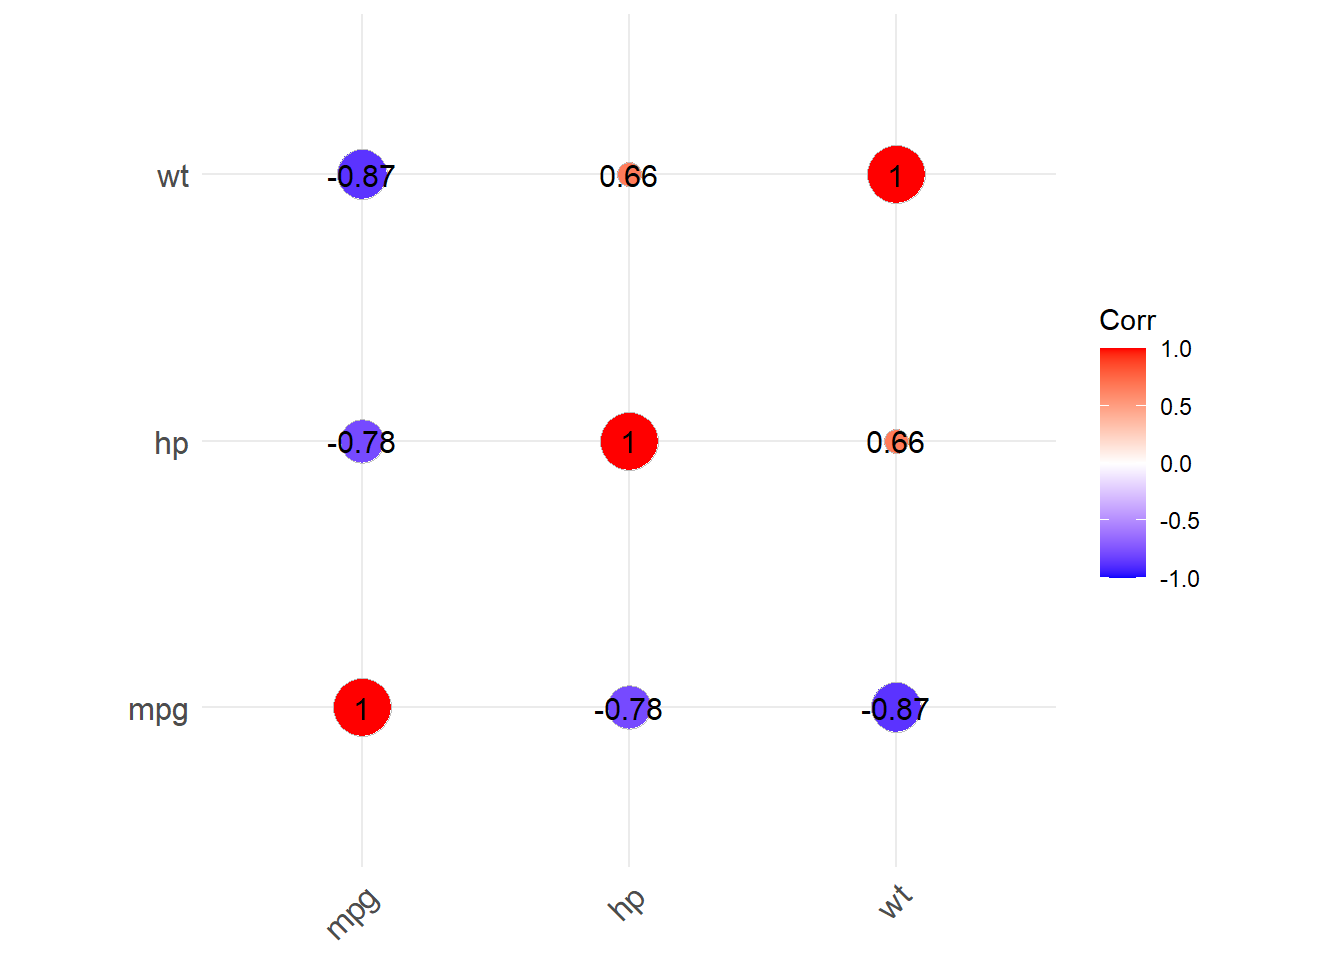
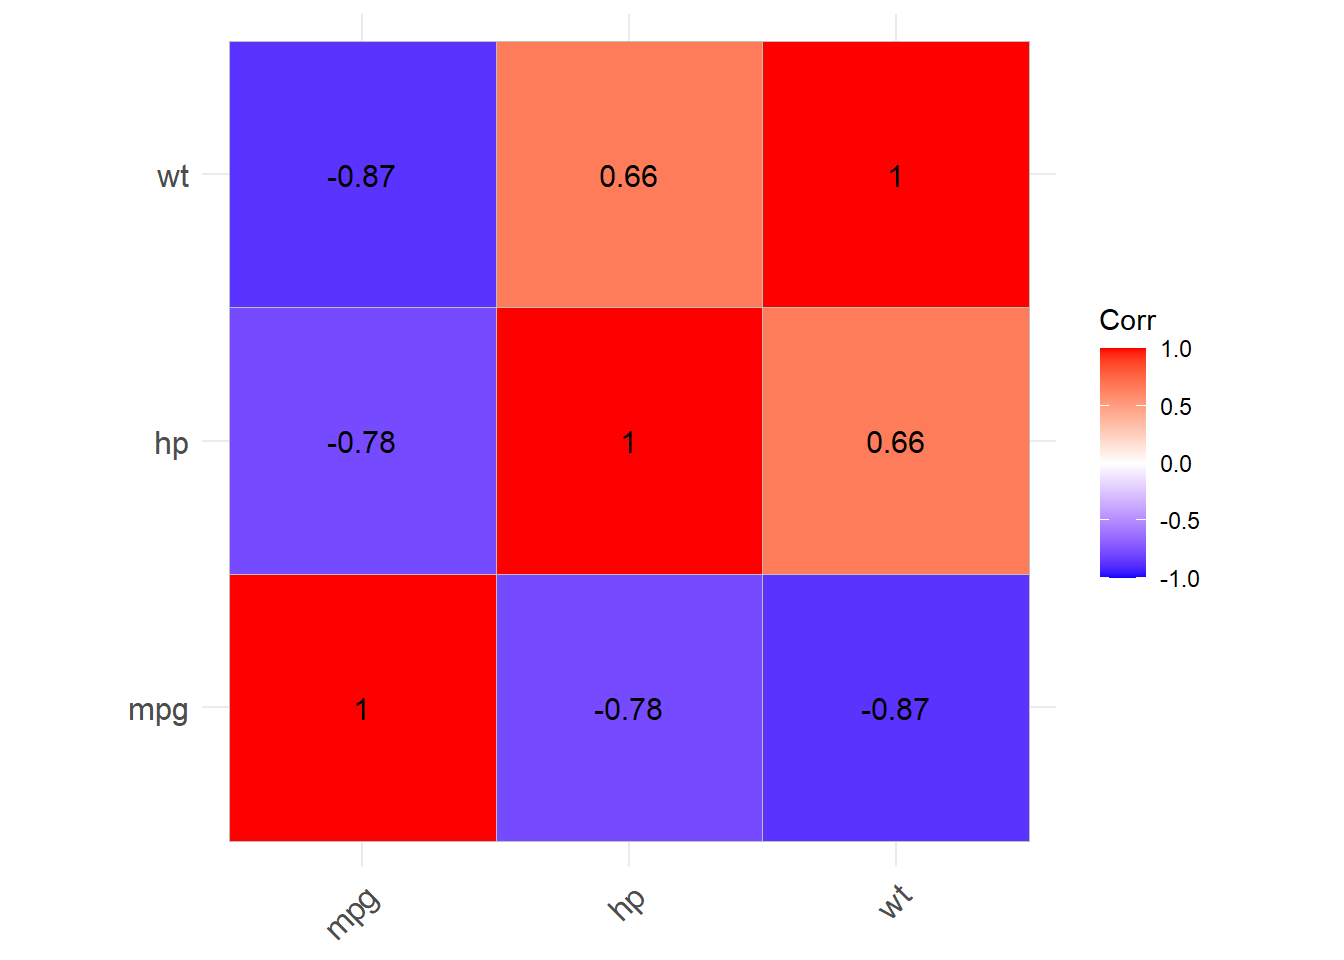
update lab 7

diff --git a/labs/lab-07_AGH.html b/labs/lab-07_AGH.html
@@ -151,7 +151,10 @@ pre > code.sourceCode > span > a:first-child::before { text-decoration: underlin
 <div class="cell">
 <div class="code-copy-outer-scaffold"><div class="sourceCode cell-code" id="cb4"><pre class="sourceCode r code-with-copy"><code class="sourceCode r"><span id="cb4-1"><a href="#cb4-1" aria-hidden="true" tabindex="-1"></a>mtcars <span class="sc">|&gt;</span></span>
 <span id="cb4-2"><a href="#cb4-2" aria-hidden="true" tabindex="-1"></a>  <span class="fu">ggplot</span>(<span class="fu">aes</span>(<span class="at">x =</span> mpg, <span class="at">y =</span> hp)) <span class="sc">+</span></span>
-<span id="cb4-3"><a href="#cb4-3" aria-hidden="true" tabindex="-1"></a>  <span class="fu">geom_point</span>()</span></code></pre></div><button title="Copy to Clipboard" class="code-copy-button"><i class="bi"></i></button></div>
+<span id="cb4-3"><a href="#cb4-3" aria-hidden="true" tabindex="-1"></a>  <span class="fu">geom_point</span>()<span class="sc">+</span></span>
+<span id="cb4-4"><a href="#cb4-4" aria-hidden="true" tabindex="-1"></a>  <span class="fu">labs</span>(<span class="at">x =</span> <span class="st">"Miles per Gallon"</span>, </span>
+<span id="cb4-5"><a href="#cb4-5" aria-hidden="true" tabindex="-1"></a>       <span class="at">y =</span> <span class="st">"Horsepower"</span>, </span>
+<span id="cb4-6"><a href="#cb4-6" aria-hidden="true" tabindex="-1"></a>       <span class="at">title =</span> <span class="st">"MPG vs. Horsepower"</span>)</span></code></pre></div><button title="Copy to Clipboard" class="code-copy-button"><i class="bi"></i></button></div>
 <div class="cell-output-display">
 <div>
 <figure class="figure">
@@ -180,14 +183,18 @@ pre > code.sourceCode > span > a:first-child::before { text-decoration: underlin
 </figure>
 </div>
 </div>
-<div class="code-copy-outer-scaffold"><div class="sourceCode cell-code" id="cb6"><pre class="sourceCode r code-with-copy"><code class="sourceCode r"><span id="cb6-1"><a href="#cb6-1" aria-hidden="true" tabindex="-1"></a><span class="fu">plot</span>(mtcars<span class="sc">$</span>mpg, mtcars<span class="sc">$</span>wt, </span>
-<span id="cb6-2"><a href="#cb6-2" aria-hidden="true" tabindex="-1"></a>     <span class="at">main=</span><span class="st">"MPG vs Weight"</span>, </span>
-<span id="cb6-3"><a href="#cb6-3" aria-hidden="true" tabindex="-1"></a>     <span class="at">xlab=</span><span class="st">"Miles per Gallon"</span>, </span>
-<span id="cb6-4"><a href="#cb6-4" aria-hidden="true" tabindex="-1"></a>     <span class="at">ylab=</span><span class="st">"Weight (1000 lbs)"</span>)</span></code></pre></div><button title="Copy to Clipboard" class="code-copy-button"><i class="bi"></i></button></div>
+</div>
+<p>Both approaches produce the same plot. The difference is just where we tell R to find the data. Using the pipe (|&gt;), we pass mtcars into ggplot() from the left. Using the data = argument, we put it directly inside ggplot(). Either style works — use whichever feels more readable to you.</p>
+<div class="cell">
+<div class="code-copy-outer-scaffold"><div class="sourceCode cell-code" id="cb6"><pre class="sourceCode r code-with-copy"><code class="sourceCode r"><span id="cb6-1"><a href="#cb6-1" aria-hidden="true" tabindex="-1"></a><span class="fu">ggplot</span>(mtcars, <span class="fu">aes</span>(<span class="at">x =</span> mpg, <span class="at">y =</span> wt)) <span class="sc">+</span></span>
+<span id="cb6-2"><a href="#cb6-2" aria-hidden="true" tabindex="-1"></a>  <span class="fu">geom_point</span>() <span class="sc">+</span></span>
+<span id="cb6-3"><a href="#cb6-3" aria-hidden="true" tabindex="-1"></a>  <span class="fu">labs</span>(<span class="at">x =</span> <span class="st">"Miles per Gallon"</span>, </span>
+<span id="cb6-4"><a href="#cb6-4" aria-hidden="true" tabindex="-1"></a>       <span class="at">y =</span> <span class="st">"Weight (1000 lbs)"</span>, </span>
+<span id="cb6-5"><a href="#cb6-5" aria-hidden="true" tabindex="-1"></a>       <span class="at">title =</span> <span class="st">"MPG vs. Weight"</span>)</span></code></pre></div><button title="Copy to Clipboard" class="code-copy-button"><i class="bi"></i></button></div>
 <div class="cell-output-display">
 <div>
 <figure class="figure">
-<p><img src="lab-07_AGH_files/figure-html/unnamed-chunk-4-2.png" class="img-fluid figure-img" width="672"></p>
+<p><img src="lab-07_AGH_files/figure-html/unnamed-chunk-5-1.png" class="img-fluid figure-img" width="672"></p>
 </figure>
 </div>
 </div>
@@ -234,7 +241,24 @@ wt  -0.8676594  0.6587479  1.0000000</code></pre>
 <div class="cell-output-display">
 <div>
 <figure class="figure">
-<p><img src="lab-07_AGH_files/figure-html/unnamed-chunk-8-1.png" class="img-fluid figure-img" width="672"></p>
+<p><img src="lab-07_AGH_files/figure-html/unnamed-chunk-9-1.png" class="img-fluid figure-img" width="672"></p>
+</figure>
+</div>
+</div>
+</div>
+<p>Let’s look visually at that relationship between hp and wt</p>
+<div class="cell">
+<div class="code-copy-outer-scaffold"><div class="sourceCode cell-code" id="cb15"><pre class="sourceCode r code-with-copy"><code class="sourceCode r"><span id="cb15-1"><a href="#cb15-1" aria-hidden="true" tabindex="-1"></a><span class="co"># Scatter plot between mpg and wt</span></span>
+<span id="cb15-2"><a href="#cb15-2" aria-hidden="true" tabindex="-1"></a>mtcars <span class="sc">|&gt;</span></span>
+<span id="cb15-3"><a href="#cb15-3" aria-hidden="true" tabindex="-1"></a>  <span class="fu">ggplot</span>(<span class="fu">aes</span>(<span class="at">x =</span> hp, <span class="at">y =</span> wt)) <span class="sc">+</span></span>
+<span id="cb15-4"><a href="#cb15-4" aria-hidden="true" tabindex="-1"></a>  <span class="fu">geom_point</span>() <span class="sc">+</span></span>
+<span id="cb15-5"><a href="#cb15-5" aria-hidden="true" tabindex="-1"></a>  <span class="fu">labs</span>(<span class="at">x =</span> <span class="st">"Horsepower"</span>, </span>
+<span id="cb15-6"><a href="#cb15-6" aria-hidden="true" tabindex="-1"></a>       <span class="at">y =</span> <span class="st">"Weight (1000 lbs)"</span>, </span>
+<span id="cb15-7"><a href="#cb15-7" aria-hidden="true" tabindex="-1"></a>       <span class="at">title =</span> <span class="st">"Horsepower vs. Weight"</span>)</span></code></pre></div><button title="Copy to Clipboard" class="code-copy-button"><i class="bi"></i></button></div>
+<div class="cell-output-display">
+<div>
+<figure class="figure">
+<p><img src="lab-07_AGH_files/figure-html/unnamed-chunk-10-1.png" class="img-fluid figure-img" width="672"></p>
 </figure>
 </div>
 </div>
@@ -242,24 +266,24 @@ wt  -0.8676594  0.6587479  1.0000000</code></pre>
 <p>The <code>ggcorrplot</code> package offers lots of versatility in terms of visualizing correlation matrices. See <a href="http://www.sthda.com/english/wiki/ggcorrplot-visualization-of-a-correlation-matrix-using-ggplot2">documentation here</a> for several options.</p>
 <p>For example:</p>
 <div class="cell">
-<div class="code-copy-outer-scaffold"><div class="sourceCode cell-code" id="cb15"><pre class="sourceCode r code-with-copy"><code class="sourceCode r"><span id="cb15-1"><a href="#cb15-1" aria-hidden="true" tabindex="-1"></a><span class="fu">ggcorrplot</span>(corr_matrix, <span class="at">lab =</span> <span class="st">"TRUE"</span>,</span>
-<span id="cb15-2"><a href="#cb15-2" aria-hidden="true" tabindex="-1"></a>           <span class="at">method =</span> <span class="st">"circle"</span>)</span></code></pre></div><button title="Copy to Clipboard" class="code-copy-button"><i class="bi"></i></button></div>
+<div class="code-copy-outer-scaffold"><div class="sourceCode cell-code" id="cb16"><pre class="sourceCode r code-with-copy"><code class="sourceCode r"><span id="cb16-1"><a href="#cb16-1" aria-hidden="true" tabindex="-1"></a><span class="fu">ggcorrplot</span>(corr_matrix, <span class="at">lab =</span> <span class="st">"TRUE"</span>,</span>
+<span id="cb16-2"><a href="#cb16-2" aria-hidden="true" tabindex="-1"></a>           <span class="at">method =</span> <span class="st">"circle"</span>)</span></code></pre></div><button title="Copy to Clipboard" class="code-copy-button"><i class="bi"></i></button></div>
 <div class="cell-output-display">
 <div>
 <figure class="figure">
-<p><img src="lab-07_AGH_files/figure-html/unnamed-chunk-9-1.png" class="img-fluid figure-img" width="672"></p>
+<p><img src="lab-07_AGH_files/figure-html/unnamed-chunk-11-1.png" class="img-fluid figure-img" width="672"></p>
 </figure>
 </div>
 </div>
 </div>
 <p>Hmm, this would probably look better without the numbers printed. Let’s try again:</p>
 <div class="cell">
-<div class="code-copy-outer-scaffold"><div class="sourceCode cell-code" id="cb16"><pre class="sourceCode r code-with-copy"><code class="sourceCode r"><span id="cb16-1"><a href="#cb16-1" aria-hidden="true" tabindex="-1"></a><span class="fu">ggcorrplot</span>(corr_matrix, <span class="at">lab =</span> <span class="st">"FALSE"</span>,</span>
-<span id="cb16-2"><a href="#cb16-2" aria-hidden="true" tabindex="-1"></a>           <span class="at">method =</span> <span class="st">"circle"</span>)</span></code></pre></div><button title="Copy to Clipboard" class="code-copy-button"><i class="bi"></i></button></div>
+<div class="code-copy-outer-scaffold"><div class="sourceCode cell-code" id="cb17"><pre class="sourceCode r code-with-copy"><code class="sourceCode r"><span id="cb17-1"><a href="#cb17-1" aria-hidden="true" tabindex="-1"></a><span class="fu">ggcorrplot</span>(corr_matrix, <span class="at">lab =</span> <span class="st">"FALSE"</span>,</span>
+<span id="cb17-2"><a href="#cb17-2" aria-hidden="true" tabindex="-1"></a>           <span class="at">method =</span> <span class="st">"circle"</span>)</span></code></pre></div><button title="Copy to Clipboard" class="code-copy-button"><i class="bi"></i></button></div>
 <div class="cell-output-display">
 <div>
 <figure class="figure">
-<p><img src="lab-07_AGH_files/figure-html/unnamed-chunk-10-1.png" class="img-fluid figure-img" width="672"></p>
+<p><img src="lab-07_AGH_files/figure-html/unnamed-chunk-12-1.png" class="img-fluid figure-img" width="672"></p>
 </figure>
 </div>
 </div>
@@ -270,7 +294,7 @@ wt  -0.8676594  0.6587479  1.0000000</code></pre>
 <h2 class="anchored" data-anchor-id="exploring-confounding">Exploring confounding</h2>
 <p>Now, we will investigate whether <code>wt</code> (weight) could be a confounding variable influencing the relationship between <code>mpg</code> and <code>hp</code>. By using partial correlation, we can control for the effect of weight and see whether the relationship between <code>mpg</code> and <code>hp</code> changes.</p>
 <div class="cell">
-<div class="code-copy-outer-scaffold"><div class="sourceCode cell-code" id="cb17"><pre class="sourceCode r code-with-copy"><code class="sourceCode r"><span id="cb17-1"><a href="#cb17-1" aria-hidden="true" tabindex="-1"></a><span class="fu">pcor.test</span>(mtcars<span class="sc">$</span>mpg, mtcars<span class="sc">$</span>hp, mtcars<span class="sc">$</span>wt)</span></code></pre></div><button title="Copy to Clipboard" class="code-copy-button"><i class="bi"></i></button></div>
+<div class="code-copy-outer-scaffold"><div class="sourceCode cell-code" id="cb18"><pre class="sourceCode r code-with-copy"><code class="sourceCode r"><span id="cb18-1"><a href="#cb18-1" aria-hidden="true" tabindex="-1"></a><span class="fu">pcor.test</span>(mtcars<span class="sc">$</span>mpg, mtcars<span class="sc">$</span>hp, mtcars<span class="sc">$</span>wt)</span></code></pre></div><button title="Copy to Clipboard" class="code-copy-button"><i class="bi"></i></button></div>
 <div class="cell-output cell-output-stdout">
 <pre><code>    estimate     p.value statistic  n gp  Method
 1 -0.5469926 0.001451229 -3.518712 32  1 pearson</code></pre>
@@ -284,7 +308,7 @@ wt  -0.8676594  0.6587479  1.0000000</code></pre>
 <p>Spearman’s correlation is different from Pearson’s correlation in that it doesn’t assume a linear relationship. Instead, it measures how well the relationship between two variables can be described using a <strong>monotonic function</strong>. In a monotonic relationship, as one variable increases (or decreases), the other variable either always increases or always decreases, though not necessarily at a constant rate.</p>
 <p>Here, We’ll compute the Spearman’s correlation between <code>mpg</code> and <code>hp</code>.</p>
 <div class="cell">
-<div class="code-copy-outer-scaffold"><div class="sourceCode cell-code" id="cb19"><pre class="sourceCode r code-with-copy"><code class="sourceCode r"><span id="cb19-1"><a href="#cb19-1" aria-hidden="true" tabindex="-1"></a><span class="fu">cor</span>(mtcars<span class="sc">$</span>mpg, mtcars<span class="sc">$</span>hp, <span class="at">method=</span><span class="st">"spearman"</span>)</span></code></pre></div><button title="Copy to Clipboard" class="code-copy-button"><i class="bi"></i></button></div>
+<div class="code-copy-outer-scaffold"><div class="sourceCode cell-code" id="cb20"><pre class="sourceCode r code-with-copy"><code class="sourceCode r"><span id="cb20-1"><a href="#cb20-1" aria-hidden="true" tabindex="-1"></a><span class="fu">cor</span>(mtcars<span class="sc">$</span>mpg, mtcars<span class="sc">$</span>hp, <span class="at">method=</span><span class="st">"spearman"</span>)</span></code></pre></div><button title="Copy to Clipboard" class="code-copy-button"><i class="bi"></i></button></div>
 <div class="cell-output cell-output-stdout">
 <pre><code>[1] -0.8946646</code></pre>
 </div>
@@ -296,11 +320,11 @@ wt  -0.8676594  0.6587479  1.0000000</code></pre>
 <p>Finally, we can create a matrix of scatterplots using the <code>ggpairs()</code> function to visualize relationships between multiple variables at once. This will help us identify potential non-linear relationships that could impact our choice of correlation methods.</p>
 <p>Note: This function is available in the <code>GGally</code> package, which you may need to install first.</p>
 <div class="cell">
-<div class="code-copy-outer-scaffold"><div class="sourceCode cell-code" id="cb21"><pre class="sourceCode r code-with-copy"><code class="sourceCode r"><span id="cb21-1"><a href="#cb21-1" aria-hidden="true" tabindex="-1"></a><span class="fu">ggpairs</span>(mtcars[, <span class="fu">c</span>(<span class="st">"mpg"</span>, <span class="st">"hp"</span>, <span class="st">"wt"</span>, <span class="st">"disp"</span>)], <span class="at">main =</span> <span class="st">"Scatterplot Matrix"</span>)</span></code></pre></div><button title="Copy to Clipboard" class="code-copy-button"><i class="bi"></i></button></div>
+<div class="code-copy-outer-scaffold"><div class="sourceCode cell-code" id="cb22"><pre class="sourceCode r code-with-copy"><code class="sourceCode r"><span id="cb22-1"><a href="#cb22-1" aria-hidden="true" tabindex="-1"></a><span class="fu">ggpairs</span>(mtcars[, <span class="fu">c</span>(<span class="st">"mpg"</span>, <span class="st">"hp"</span>, <span class="st">"wt"</span>, <span class="st">"disp"</span>)], <span class="at">main =</span> <span class="st">"Scatterplot Matrix"</span>)</span></code></pre></div><button title="Copy to Clipboard" class="code-copy-button"><i class="bi"></i></button></div>
 <div class="cell-output-display">
 <div>
 <figure class="figure">
-<p><img src="lab-07_AGH_files/figure-html/unnamed-chunk-13-1.png" class="img-fluid figure-img" width="672"></p>
+<p><img src="lab-07_AGH_files/figure-html/unnamed-chunk-15-1.png" class="img-fluid figure-img" width="672"></p>
 </figure>
 </div>
 </div>
@@ -308,9 +332,9 @@ wt  -0.8676594  0.6587479  1.0000000</code></pre>
 <p>The scatterplot matrix shows the relationships between all pairs of variables. Most of the relationships between <code>mpg</code> and other variables appear to be linear, especially between <code>mpg</code> and <code>wt</code>. However, there may be non-linear relationships between some variables, like <code>disp</code> (displacement) and <code>wt</code>, which could be explored further.</p>
 <p>Note that we can also create the same plot using the <code>select()</code> function:</p>
 <div class="cell">
-<div class="code-copy-outer-scaffold"><div class="sourceCode cell-code" id="cb22"><pre class="sourceCode r code-with-copy"><code class="sourceCode r"><span id="cb22-1"><a href="#cb22-1" aria-hidden="true" tabindex="-1"></a>mtcars <span class="sc">|&gt;</span></span>
-<span id="cb22-2"><a href="#cb22-2" aria-hidden="true" tabindex="-1"></a>  dplyr<span class="sc">::</span><span class="fu">select</span>(mpg, hp, wt, disp) <span class="sc">|&gt;</span></span>
-<span id="cb22-3"><a href="#cb22-3" aria-hidden="true" tabindex="-1"></a>  <span class="fu">ggpairs</span>()</span></code></pre></div><button title="Copy to Clipboard" class="code-copy-button"><i class="bi"></i></button></div>
+<div class="code-copy-outer-scaffold"><div class="sourceCode cell-code" id="cb23"><pre class="sourceCode r code-with-copy"><code class="sourceCode r"><span id="cb23-1"><a href="#cb23-1" aria-hidden="true" tabindex="-1"></a>mtcars <span class="sc">|&gt;</span></span>
+<span id="cb23-2"><a href="#cb23-2" aria-hidden="true" tabindex="-1"></a>  dplyr<span class="sc">::</span><span class="fu">select</span>(mpg, hp, wt, disp) <span class="sc">|&gt;</span></span>
+<span id="cb23-3"><a href="#cb23-3" aria-hidden="true" tabindex="-1"></a>  <span class="fu">ggpairs</span>()</span></code></pre></div><button title="Copy to Clipboard" class="code-copy-button"><i class="bi"></i></button></div>
 </div>
 </section>
 <section id="on-your-own" class="level2">
@@ -366,16 +390,16 @@ wt  -0.8676594  0.6587479  1.0000000</code></pre>
 <p>Run the following code for a fun visualization in the <code>iris</code> dataset using faceting. Change the theme to something other than <code>theme_minimal()</code>. (See other possible <a href="https://ggplot2.tidyverse.org/reference/ggtheme.html">themes here</a>.)</p>
 <p>Comment on any relationships you see. What do you think the <code>facet_wrap(~Species)</code> command does?</p>
 <div class="cell">
-<div class="code-copy-outer-scaffold"><div class="sourceCode cell-code" id="cb23"><pre class="sourceCode r code-with-copy"><code class="sourceCode r"><span id="cb23-1"><a href="#cb23-1" aria-hidden="true" tabindex="-1"></a><span class="fu">ggplot</span>(iris, </span>
-<span id="cb23-2"><a href="#cb23-2" aria-hidden="true" tabindex="-1"></a>       <span class="fu">aes</span>(<span class="at">x =</span> Sepal.Length, <span class="at">y =</span> Sepal.Width, <span class="at">color =</span> Species)) <span class="sc">+</span></span>
-<span id="cb23-3"><a href="#cb23-3" aria-hidden="true" tabindex="-1"></a>  <span class="fu">geom_point</span>(<span class="at">size =</span> <span class="dv">3</span>, <span class="at">alpha =</span> <span class="fl">0.6</span>) <span class="sc">+</span></span>
-<span id="cb23-4"><a href="#cb23-4" aria-hidden="true" tabindex="-1"></a>  <span class="fu">geom_smooth</span>(<span class="at">method =</span> <span class="st">"lm"</span>, <span class="at">se =</span> <span class="cn">FALSE</span>) <span class="sc">+</span></span>
-<span id="cb23-5"><a href="#cb23-5" aria-hidden="true" tabindex="-1"></a>  <span class="fu">labs</span>(<span class="at">title =</span> <span class="st">"Sepal Dimensions by Species"</span>,</span>
-<span id="cb23-6"><a href="#cb23-6" aria-hidden="true" tabindex="-1"></a>       <span class="at">x =</span> <span class="st">"Sepal Length"</span>,</span>
-<span id="cb23-7"><a href="#cb23-7" aria-hidden="true" tabindex="-1"></a>       <span class="at">y =</span> <span class="st">"Sepal Width"</span>) <span class="sc">+</span></span>
-<span id="cb23-8"><a href="#cb23-8" aria-hidden="true" tabindex="-1"></a>  <span class="fu">theme_minimal</span>() <span class="sc">+</span></span>
-<span id="cb23-9"><a href="#cb23-9" aria-hidden="true" tabindex="-1"></a>  <span class="fu">facet_wrap</span>(<span class="sc">~</span> Species) <span class="sc">+</span></span>
-<span id="cb23-10"><a href="#cb23-10" aria-hidden="true" tabindex="-1"></a>  <span class="fu">theme</span>(<span class="at">legend.position =</span> <span class="st">"none"</span>)</span></code></pre></div><button title="Copy to Clipboard" class="code-copy-button"><i class="bi"></i></button></div>
+<div class="code-copy-outer-scaffold"><div class="sourceCode cell-code" id="cb24"><pre class="sourceCode r code-with-copy"><code class="sourceCode r"><span id="cb24-1"><a href="#cb24-1" aria-hidden="true" tabindex="-1"></a><span class="fu">ggplot</span>(iris, </span>
+<span id="cb24-2"><a href="#cb24-2" aria-hidden="true" tabindex="-1"></a>       <span class="fu">aes</span>(<span class="at">x =</span> Sepal.Length, <span class="at">y =</span> Sepal.Width, <span class="at">color =</span> Species)) <span class="sc">+</span></span>
+<span id="cb24-3"><a href="#cb24-3" aria-hidden="true" tabindex="-1"></a>  <span class="fu">geom_point</span>(<span class="at">size =</span> <span class="dv">3</span>, <span class="at">alpha =</span> <span class="fl">0.6</span>) <span class="sc">+</span></span>
+<span id="cb24-4"><a href="#cb24-4" aria-hidden="true" tabindex="-1"></a>  <span class="fu">geom_smooth</span>(<span class="at">method =</span> <span class="st">"lm"</span>, <span class="at">se =</span> <span class="cn">FALSE</span>) <span class="sc">+</span></span>
+<span id="cb24-5"><a href="#cb24-5" aria-hidden="true" tabindex="-1"></a>  <span class="fu">labs</span>(<span class="at">title =</span> <span class="st">"Sepal Dimensions by Species"</span>,</span>
+<span id="cb24-6"><a href="#cb24-6" aria-hidden="true" tabindex="-1"></a>       <span class="at">x =</span> <span class="st">"Sepal Length"</span>,</span>
+<span id="cb24-7"><a href="#cb24-7" aria-hidden="true" tabindex="-1"></a>       <span class="at">y =</span> <span class="st">"Sepal Width"</span>) <span class="sc">+</span></span>
+<span id="cb24-8"><a href="#cb24-8" aria-hidden="true" tabindex="-1"></a>  <span class="fu">theme_minimal</span>() <span class="sc">+</span></span>
+<span id="cb24-9"><a href="#cb24-9" aria-hidden="true" tabindex="-1"></a>  <span class="fu">facet_wrap</span>(<span class="sc">~</span> Species) <span class="sc">+</span></span>
+<span id="cb24-10"><a href="#cb24-10" aria-hidden="true" tabindex="-1"></a>  <span class="fu">theme</span>(<span class="at">legend.position =</span> <span class="st">"none"</span>)</span></code></pre></div><button title="Copy to Clipboard" class="code-copy-button"><i class="bi"></i></button></div>
 </div>
 </section>
 <section id="ai-attestation" class="level2">
